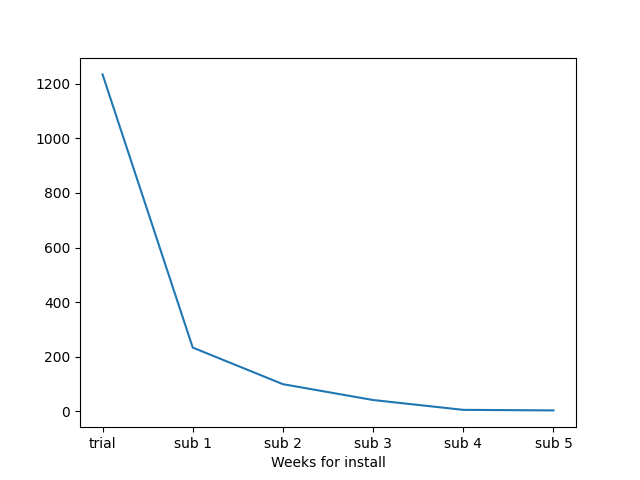
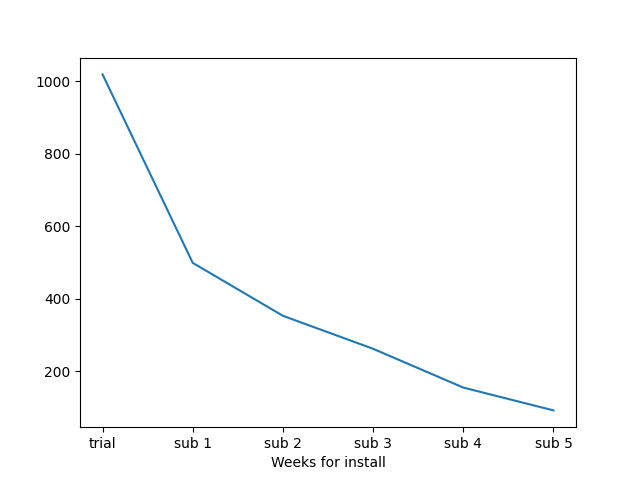
Rename some code

diff --git a/test/test_user_retention_on_smaller_tables.py b/test/test_user_retention_on_smaller_tables.py
@@ -4,7 +4,7 @@ from ltv_entity import CustomerLifetimeValue
 
 def test_retention_for_one_user():
     ltv = CustomerLifetimeValue("model/LTV=USD34.96.csv")
-    res = ltv.compute_retention()
+    res = ltv.compute_classical_retention()
     print("__",res)
     assert len(res) == 6
     assert res[0] == 1
@@ -13,19 +13,19 @@ def test_retention_for_one_user():
 
 def test_retention_for_two_users():
     ltv = CustomerLifetimeValue("model/two_users.csv")
-    res = ltv.compute_retention()
+    res = ltv.compute_classical_retention()
     assert res[0] == 2
     assert res[1] == 2
     assert res == [2, 2, 2, 2, 1, 1]
     assert len(res) == 6
 
     ltv = CustomerLifetimeValue("model/two_users.csv")
-    assert ltv.compute_conversion_rates_of_users_relative_to_previous_week(ltv.compute_retention()) == [1, 1, 1, 0.5, 1]
+    assert ltv.compute_conversion_rates_of_users_relative_to_previous_week(ltv.compute_classical_retention()) == [1, 1, 1, 0.5, 1]
 
 
 def test_active_users_for_each_week_including_trial():
     ltv = CustomerLifetimeValue("model/two_users.csv")
-    res = ltv.compute_retention()
+    res = ltv.compute_classical_retention()
     assert res == [2, 2, 2, 2, 1, 1]
     assert len(res) == 6
     assert res[0] == 2

diff --git a/test/test_lifetime_value_entity.py b/test/test_lifetime_value_entity.py
@@ -18,14 +18,14 @@ def test_ltv_when_number_of_users_is_two():
 
 def test_conversion_rate():
     ltv = CustomerLifetimeValue("../test/model/LTV=USD34.96.csv")
-    assert ltv.compute_conversion_rates_of_users_relative_to_previous_week(ltv.compute_retention()) == [1.0, 1.0, 1.0, 1.0, 1.0]
+    assert ltv.compute_conversion_rates_of_users_relative_to_previous_week(ltv.compute_classical_retention()) == [1.0, 1.0, 1.0, 1.0, 1.0]
     ltv = CustomerLifetimeValue("../test/model/dummy.csv")
     assert ltv.compute_conversion_rates_of_users_relative_to_previous_week([3, 3, 2, 1, 1]) == [1.0, pytest.approx(2 / 3, 0.0001), 0.50, 1]
 
 
 def test_ltv_for_three_users():
     ltv = CustomerLifetimeValue("../test/model/three_users.csv")
-    assert ltv.compute_retention() == [3, 3, 3, 2, 1]
+    assert ltv.compute_classical_retention() == [3, 3, 3, 2, 1]
 
     assert ltv.compute_conversion_rates_of_users_relative_to_previous_week([3, 3, 3, 2, 1]) == [1, 1, pytest.approx(2 / 3, 0.0001), 0.5]
     assert ltv.compute_lifetime_value_using_conversions([1, 1, 2 / 3, 0.5]) == (9)*9.99*.7 / 3

diff --git a/src/ltv_entity.py b/src/ltv_entity.py
@@ -14,7 +14,7 @@ class CustomerLifetimeValue:
 
     def compute_ltv_main(self):
         convs = self.compute_conversion_rates_of_users_relative_to_previous_week(
-            self.compute_retention())
+            self.compute_classical_retention())
         return self.compute_lifetime_value_using_conversions(convs)
 
     def compute_lifetime_value_using_conversions(self, convs):
@@ -25,7 +25,7 @@ class CustomerLifetimeValue:
             values.append(values[-1] * convs[i])
         return sum(values[1:])
 
-    def compute_retention(self):
+    def compute_classical_retention(self):
         user_retention = self.compute_compressed_active_users()
         return self.extract_active_users(user_retention['subscriptions'], user_retention['registration'])#self.aggregated #[1, 0, 1, 1, 1, 1]
 

diff --git a/test/test_tell_story_in_presentation.py b/test/test_tell_story_in_presentation.py
@@ -1,0 +1,17 @@
+import os
+
+import pytest
+
+from presentation import *
+
+
+
+@pytest.mark.skip("confusing with plots based on real data")
+def test_present_ltv_across_countries():
+    tell_story_about_lifetimevalue_comparing_countries([100,56,33],['USA','USD','UKR'])
+    os.path.isfile('../OPENME/ltv-countries.png')
+
+@pytest.mark.skip("confusing with plots based on real data")
+def test_present_ltv_across_devices():
+    tell_story_about_lifetimevalue_comparing_devices(15.564, 12.532)
+    os.path.isfile('../OPENME/ltv-iphone-ipad.png')

diff --git a/test/test_graph_stroies.py b/test/test_graph_stroies.py
@@ -2,10 +2,14 @@ import pytest
 
 from graph_stories import GraphStory
 
-class LTVComputeRetentionDummy():
-    def compute_classical_retention(self):
-        return [1234, 234, 100, 42, 6, 4]
 
+class LTVComputeRetentionDummy():
+
+    def compute_classical_retention(self):
+        return [1234, 234, 100, 42, 6, 40]
+
+
+@pytest.mark.skip("confusing with plots based on real data")
 def test_construction():
     user_story = GraphStory(LTVComputeRetentionDummy())
     user_story.explore_retention_of_users()

diff --git a/src/presentation.py b/src/presentation.py
@@ -11,6 +11,8 @@ def tell_story_about_classical_retention_rate_as_line(retention):
     xticks = ['trial'] + ['sub ' + str(i) for i in range(1, len(retention))]
     x = [i for i in range(len(retention))]
 
+    plt.title('User Retention')
+
     plt.xticks(x, xticks)
     plt.xlabel('Weeks for install')
 

diff --git a/src/graph_stories.py b/src/graph_stories.py
@@ -7,4 +7,3 @@ class GraphStory():
     def explore_retention_of_users(self):
         response_model = self.retention.compute_classical_retention()
         presentation.tell_story_about_classical_retention_rate_as_line(response_model)
-

diff --git a/src/main_controller.py b/src/main_controller.py
@@ -1,5 +1,6 @@
+import ltv_entity
 from graph_stories import GraphStory
 
-story = GraphStory()
+story = GraphStory(ltv_entity.CustomerLifetimeValue("data_analytics.csv"))
 
 story.explore_retention_of_users()
